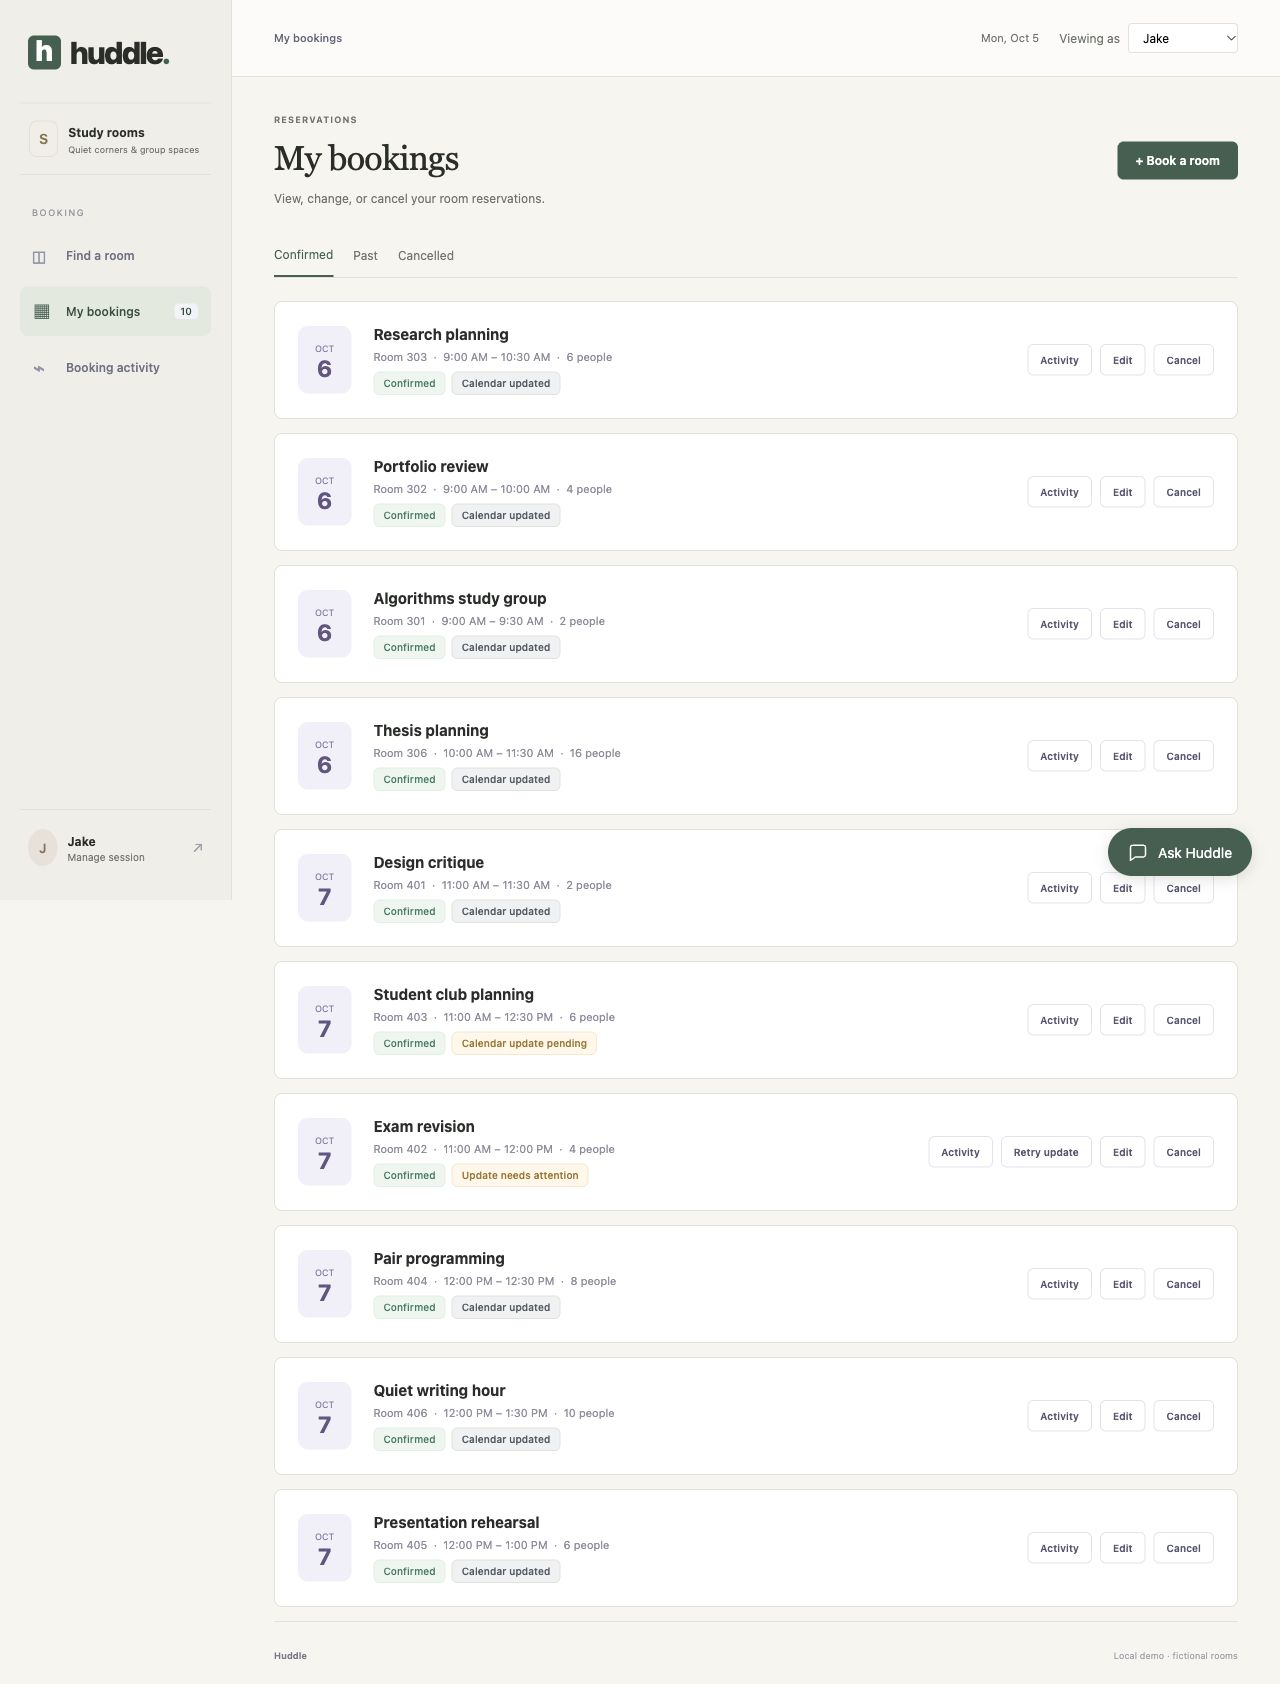
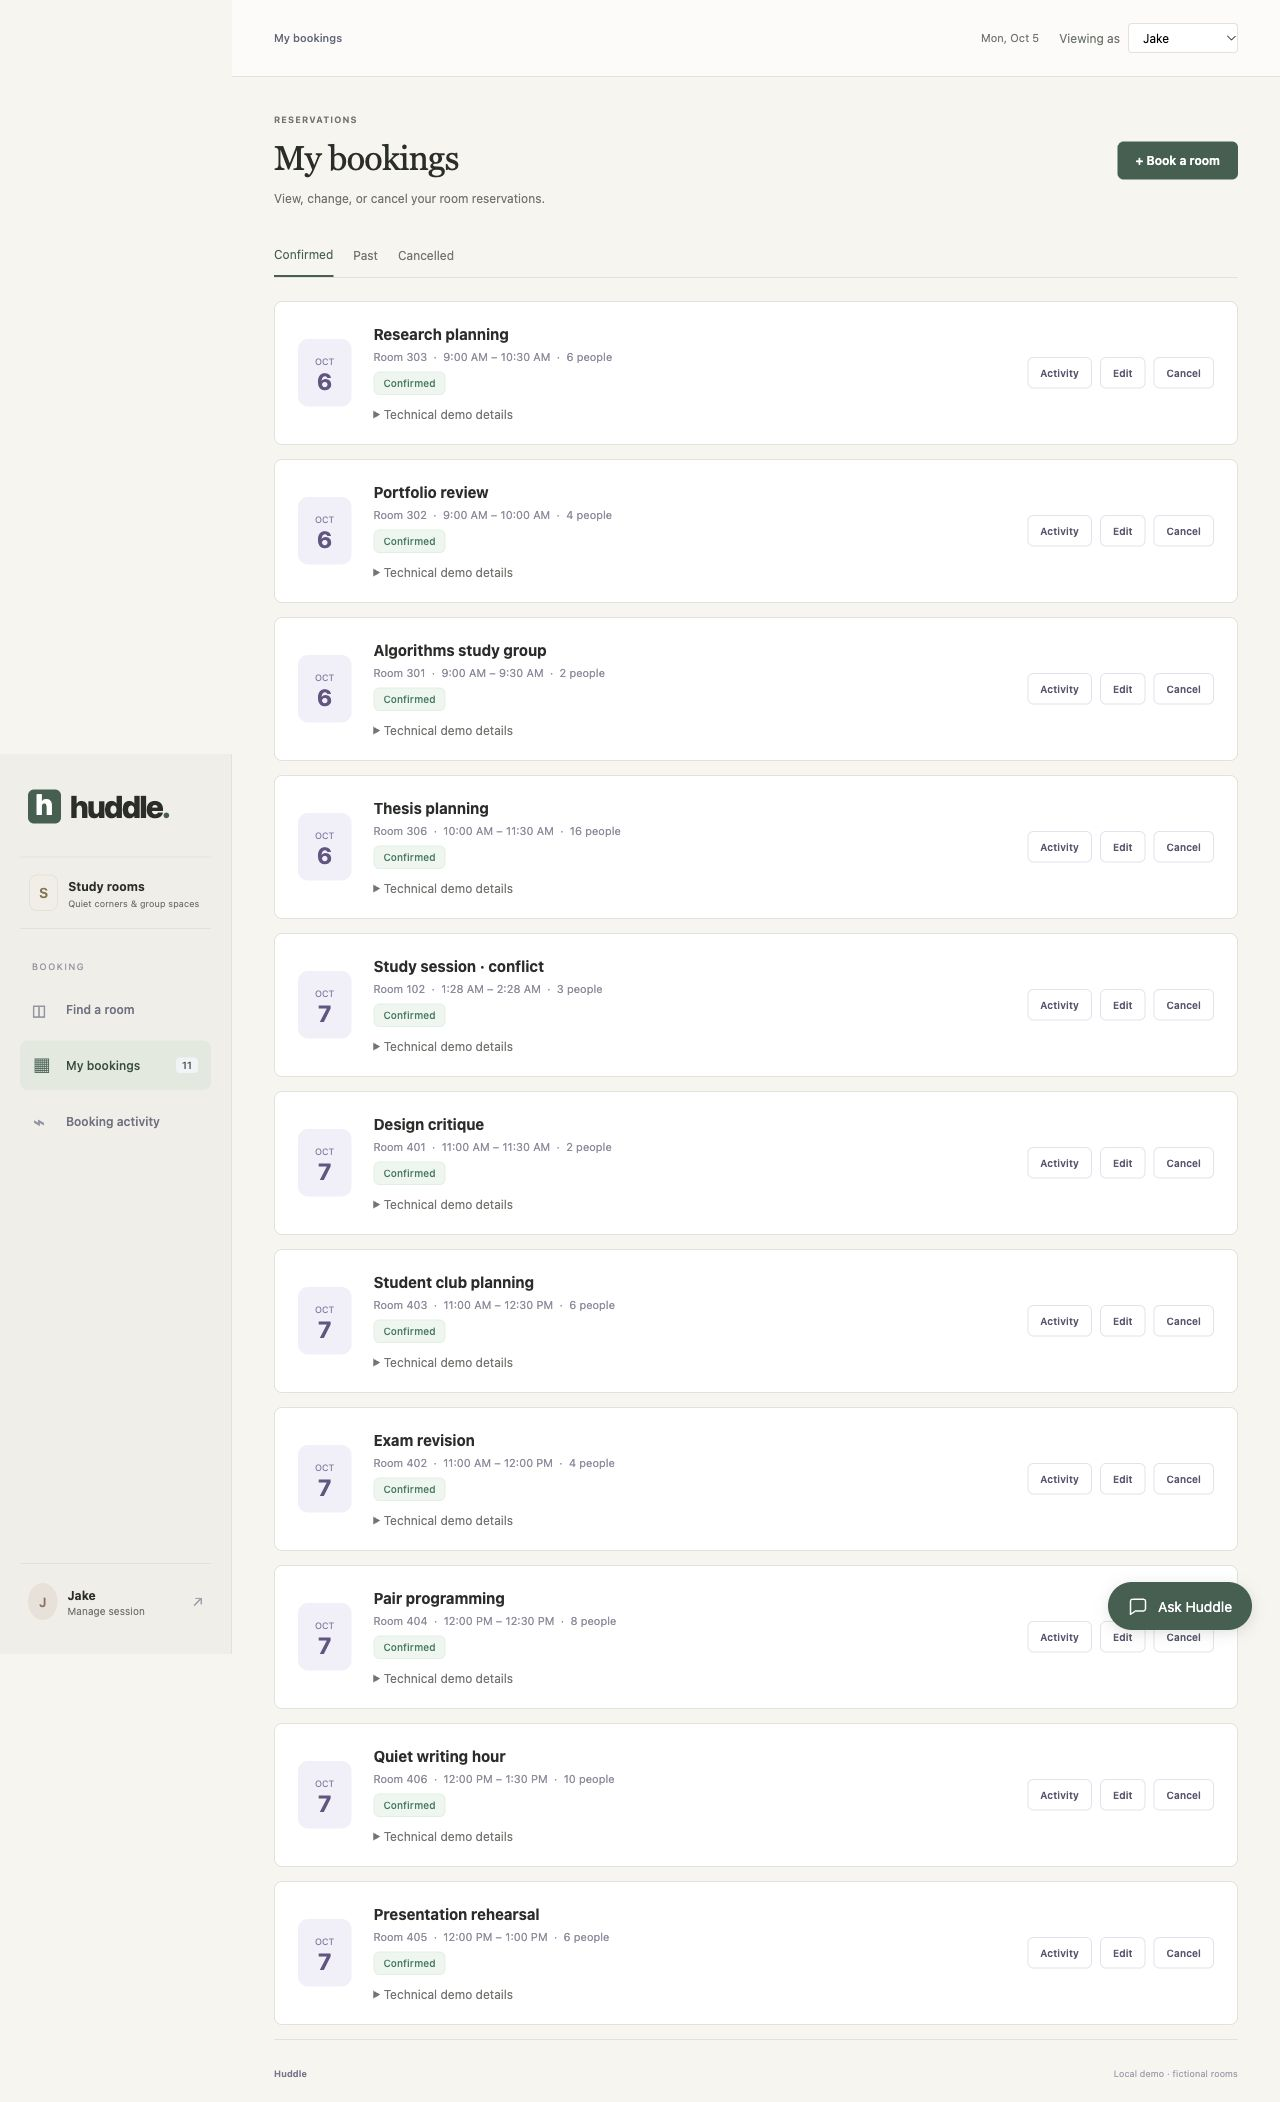
simplify booking activity and calendar details

diff --git a/app/static/app.js b/app/static/app.js
@@ -157,13 +157,14 @@ async function loadBookings() {
   }
 }
 function renderBookings() {
+  const expanded = new Set($$("details[data-booking-tech][open]").map(el => el.dataset.bookingTech));
   const bookings = state.bookings.filter(b => state.filter === "past" ? b.status === "confirmed" && new Date(b.starts_at) <= new Date() : b.status === state.filter && (state.filter !== "confirmed" || new Date(b.starts_at) > new Date()));
   $("#booking-list").innerHTML = bookings.length
     ? bookings
         .map((b) => {
           const d = new Date(b.starts_at),
             future = d > new Date();
-          return `<article class="booking-card"><div class="date-box"><small>${d.toLocaleDateString(undefined, { month: "short" })}</small><b>${d.getDate()}</b></div><div class="booking-content"><h3>${escapeHTML(b.title)}</h3><div class="booking-meta">${escapeHTML(roomName(b.room_id))} &nbsp;·&nbsp; ${tm(b.starts_at)} – ${tm(b.ends_at)} &nbsp;·&nbsp; ${b.attendees} people</div><div class="booking-badges"><span class="badge ${b.status === "cancelled" ? "cancelled" : ""}">${b.status === "cancelled" ? "Cancelled" : future ? "Confirmed" : "Past booking"}</span><span class="badge ${b.calendar_status === "synced" ? "neutral" : "pending"}">${{ pending: "Calendar update pending", synced: "Calendar updated", needs_review: "Update needs attention" }[b.calendar_status]}</span></div><div id="events-${b.id}" class="hidden history-inline"></div></div><div class="booking-actions"><button class="button secondary" data-events="${b.id}">Activity</button>${b.calendar_status === "needs_review" ? `<button class="button secondary" data-retry="${b.id}">Retry update</button>` : ""}${b.status === "confirmed" && future ? `<button class="button secondary" data-edit="${b.id}">Edit</button><button class="button secondary" data-cancel="${b.id}">Cancel</button>` : ""}</div></article>`;
+          return `<article class="booking-card"><div class="date-box"><small>${d.toLocaleDateString(undefined, { month: "short" })}</small><b>${d.getDate()}</b></div><div class="booking-content"><h3>${escapeHTML(b.title)}</h3><div class="booking-meta">${escapeHTML(roomName(b.room_id))} &nbsp;·&nbsp; ${tm(b.starts_at)} – ${tm(b.ends_at)} &nbsp;·&nbsp; ${b.attendees} people</div><div class="booking-badges"><span class="badge ${b.status === "cancelled" ? "cancelled" : ""}">${b.status === "cancelled" ? "Cancelled" : future ? "Confirmed" : "Past booking"}</span></div><div id="events-${b.id}" class="hidden history-inline"></div><details class="booking-technical" data-booking-tech="${b.id}" ${expanded.has(b.id) ? "open" : ""}><summary>Technical demo details</summary><p>Current calendar state: <b>${{ pending: "Update pending", synced: "Updated", needs_review: "Needs attention" }[b.calendar_status]}</b>. This does not change your room reservation.</p>${b.calendar_status === "needs_review" ? `<button class="button secondary" data-retry="${b.id}">Retry update</button>` : ""}<div id="calendar-events-${b.id}"></div></details></div><div class="booking-actions"><button class="button secondary" data-events="${b.id}">Activity</button>${b.status === "confirmed" && future ? `<button class="button secondary" data-edit="${b.id}">Edit</button><button class="button secondary" data-cancel="${b.id}">Cancel</button>` : ""}</div></article>`;
         })
         .join("")
     : `<div class="empty-state"><span class="empty-symbol">▦</span><h3>${state.filter === "cancelled" ? "No cancelled bookings" : state.filter === "past" ? "No past bookings" : "No confirmed bookings"}</h3><p>${state.filter === "cancelled" ? "Cancelled bookings will appear here." : state.filter === "past" ? "Completed reservations will appear here." : "Choose a room and time to create a booking."}</p><button class="button primary" data-page="discover">Explore rooms →</button></div>`;
@@ -347,29 +348,25 @@ async function loadMetrics() {
     $("#worker-status").className =
       "badge " + (m.worker?.online ? "" : "pending");
     const cards = [
-      ["Confirmed bookings", m.confirmed, "Includes past reservations"],
-      [
-        "Calendar updated",
-        m.synced,
-        "Across confirmed & cancelled bookings",
-      ],
-      ["Waiting for calendar update", m.pending, "Scheduled to update"],
-      ["Updates needing attention", m.needs_review, "Open the booking to retry"],
+      ["Confirmed reservations", m.confirmed, "Includes past reservations"],
+      ["Cancelled reservations", m.cancelled, "Rooms released"],
     ];
-    $("#metrics").innerHTML = cards
-      .map(
-        ([label, value, note]) =>
-          `<div class="metric"><span class="label">${label}</span><strong>${value}</strong><small>${note}</small></div>`,
-      )
-      .join("");
-    $("#activity").innerHTML = m.history.length
-      ? m.history.filter(h => h.kind !== "calendar_attempt").slice(0, 12)
-          .map(
-            (h) =>
-              `<div class="activity-item"><span class="event-dot">${h.kind === "calendar_synced" ? "✓" : h.kind.includes("retry") ? "↻" : "·"}</span><div><b>${escapeHTML(h.title)} · ${escapeHTML(activityText(h.kind)[0])}</b><p>${escapeHTML(activityText(h.kind)[1])}</p><small>${dt(h.created_at)} · ${escapeHTML(roomName(h.room_id))}</small></div></div>`,
-          )
-          .join("")
-      : '<div class="empty-state"><h3>No activity yet</h3><p>Your booking and calendar updates will appear here.</p></div>';
+    const renderCards = cards => cards.map(([label, value, note]) =>
+      `<div class="metric"><span class="label">${label}</span><strong>${value}</strong><small>${note}</small></div>`).join("");
+    const renderActivity = events => events.map(h =>
+      `<div class="activity-item"><span class="event-dot">·</span><div><b>${escapeHTML(h.title)} · ${escapeHTML(activityText(h.kind)[0])}</b><p>${escapeHTML(activityText(h.kind)[1])}</p><small>${dt(h.created_at)} · ${escapeHTML(roomName(h.room_id))}</small></div></div>`).join("");
+    $("#metrics").innerHTML = renderCards(cards);
+    const history = m.booking_history || m.history.filter(h => ["confirmed", "rescheduled", "cancelled"].includes(h.kind));
+    $("#activity").innerHTML = history.length ? renderActivity(history) : '<div class="empty-state"><h3>No activity yet</h3><p>Your bookings, changes, and cancellations will appear here.</p></div>';
+    $("#calendar-metrics").innerHTML = renderCards([
+      ["Calendar updated", m.synced, "Includes cancelled reservations"],
+      ["Pending updates", m.pending, "Queued for the worker"],
+      ["Needs attention", m.needs_review, "Open a booking’s technical details to retry"],
+      ["Retried tasks", m.retried, `${m.jobs} total tasks`],
+    ]);
+    const technical = m.history.filter(h => !["confirmed", "rescheduled", "cancelled"].includes(h.kind));
+    $("#calendar-activity").innerHTML = technical.length ? renderActivity(technical) : '<p>No calendar events yet.</p>';
+
   } catch (e) {
     toast(e.message);
   }
@@ -406,12 +403,10 @@ async function actions(event) {
         const events = await api(
           "/bookings/" + target.dataset.events + "/events",
         );
-        el.innerHTML = events
-          .map(
-            (e) =>
-              `<p>${escapeHTML(activityText(e.kind)[0])} · ${escapeHTML(activityText(e.kind)[1])}<br><small>${dt(e.created_at)}</small></p>`,
-          )
-          .join("");
+        const render = events => events.map(e => `<p>${escapeHTML(activityText(e.kind)[0])} · ${escapeHTML(activityText(e.kind)[1])}<br><small>${dt(e.created_at)}</small></p>`).join("");
+        el.innerHTML = render(events.filter(e => ["confirmed", "rescheduled", "cancelled"].includes(e.kind)));
+        $("#calendar-events-" + target.dataset.events).innerHTML = '<p class="muted">Historical calendar events; the current state is shown above.</p>' + render(events.filter(e => !["confirmed", "rescheduled", "cancelled"].includes(e.kind)));
+
       }
     }
     if (target.dataset.retry) {

diff --git a/app/static/index.html b/app/static/index.html
@@ -130,11 +130,9 @@
             <div>
               <p class="eyebrow">RESERVATION STATUS</p>
               <h1>Booking activity</h1>
-              <p>Track your reservations and calendar updates.</p>
+              <p>See when rooms were booked, changed, or cancelled.</p>
             </div>
-            <span class="badge neutral" id="worker-status"
-              >Checking updates</span
-            >
+
           </div>
           <div class="metrics" id="metrics"></div>
 
@@ -145,6 +143,14 @@
 
               </div>
               <div id="activity"></div>
+              <details class="technical-details" id="calendar-details">
+                <summary>Technical demo details</summary>
+                <p>Calendar synchronization is a background reliability demonstration. It does not determine whether your room is reserved. Events below are history, not the current status of each booking.</p>
+                <span class="badge neutral" id="worker-status">Checking updates</span>
+                <div class="metrics" id="calendar-metrics"></div>
+                <h3>Calendar processing history</h3>
+                <div id="calendar-activity"></div>
+              </details>
             </div>
 
           </div>

diff --git a/app/static/styles.css b/app/static/styles.css
@@ -1564,3 +1564,10 @@ h1 { font-family: Georgia, serif; font-weight: 500; font-size: 34px; letter-spac
 .floor-control select { width: auto; padding: 7px 10px; border: 1px solid var(--line); border-radius: 4px; background: white; }
 .sample-flows { margin-top: 14px; font-size: 12px; }
 .sample-flows button { display: block; margin-top: 8px; }
+
+#metrics { grid-template-columns: repeat(2, minmax(0, 1fr)); }
+.booking-technical { margin-top: 12px; color: var(--muted); font-size: 12px; }
+.booking-technical summary { cursor: pointer; }
+.booking-technical p { line-height: 1.6; margin: 10px 0; }
+#calendar-details { margin-top: 24px; }
+#calendar-metrics { margin-top: 16px; grid-template-columns: repeat(2, minmax(0, 1fr)); }

diff --git a/app/operations.py b/app/operations.py
@@ -36,11 +36,19 @@ def metrics(user=Depends(current_user)):
             FROM booking_events e JOIN bookings b ON b.id=e.booking_id WHERE b.owner_id=%s ORDER BY e.id DESC LIMIT 30""",
             (user["id"],),
         ).fetchall()
+        booking_history = conn.execute(
+            """SELECT e.kind,e.detail,e.created_at,b.title,b.room_id,b.id AS booking_id
+            FROM booking_events e JOIN bookings b ON b.id=e.booking_id
+            WHERE b.owner_id=%s AND e.kind IN ('confirmed','rescheduled','cancelled')
+            ORDER BY e.id DESC LIMIT 30""",
+            (user["id"],),
+        ).fetchall()
     return {
         **totals,
         **jobs,
         "worker": heartbeat,
         "history": history,
+        "booking_history": booking_history,
         "scope": "Current workspace session; calendar simulator",
         "latency_definition": "p95 seconds from outbox enqueue to successful reconciliation, including retries; completed jobs only",
     }

diff --git a/tests/integration/test_bookings.py b/tests/integration/test_bookings.py
@@ -148,3 +148,18 @@ def test_unauthenticated_api():
             assert (await c.get("/bookings")).status_code == 401
 
     asyncio.run(run())
+
+
+def test_booking_activity_survives_calendar_event_volume(api):
+    b = api("POST", "/bookings", json=payload()).json()
+    with connect() as conn:
+        for _ in range(35):
+            conn.execute(
+                "INSERT INTO booking_events(booking_id,kind,detail) VALUES (%s,'calendar_retry','test retry')",
+                (b["id"],),
+            )
+    metrics = api("GET", "/metrics").json()
+    assert all(h["kind"] == "calendar_retry" for h in metrics["history"])
+    assert [h["kind"] for h in metrics["booking_history"]] == ["confirmed"]
+    api("POST", "/session", json={"name": "Other student"})
+    assert api("GET", "/metrics").json()["booking_history"] == []

diff --git a/README.md b/README.md
@@ -18,6 +18,9 @@ scraping, or public deployment requirement.
   leave the room reserved, retry automatically, and become visible review tasks
   when the retry budget is exhausted.
 
+Calendar processing details stay collapsed under **Technical demo details**; the
+main booking screens show reservation status and booking history.
+
 The UI, API, database, worker, and HTTP calendar simulator are runnable locally.
 This is a portfolio/demo application, not a deployed production booking service.
 
@@ -158,7 +161,7 @@ reproducible development. LangSmith tracing is not required.
 
 ## Measured evidence
 
-The current suite passes 68 tests. A [separate-process restart experiment](artifacts/workflow-restart.json)
+The current suite passes 69 tests. A [separate-process restart experiment](artifacts/workflow-restart.json)
 restores an approval checkpoint and verifies repeated approval creates one booking.
 Run it with `TEST_DATABASE_URL=.../huddle_test uv run python scripts/workflow_demo.py`.
 
@@ -210,7 +213,7 @@ uv run pytest -q
 uv run python scripts/recovery_demo.py
 ```
 
-The validated suite has **68 passing cases**, including actual PostgreSQL
+The validated suite has **69 passing cases**, including actual PostgreSQL
 contention, direct constraint enforcement, owner isolation, exact-action approval,
 lease recovery, and retry exhaustion. The recovery script deliberately exits
 worker subprocesses, waits for real lease expiry, and overwrites the raw results
@@ -257,15 +260,22 @@ view; they include successful and failed update states rather than only empty pa
 ![Cancelled bookings](docs/screenshots/cancelled-bookings.jpg)
 
 </details>
-<details><summary>Calendar failures and retry activity</summary>
+<details><summary>Booking activity and optional technical details</summary>
 
-![Booking activity with pending and failed updates](docs/screenshots/reliability.jpg)
+![Booking activity](docs/screenshots/reliability.jpg)
+
+![Optional calendar diagnostics](docs/screenshots/technical-activity.jpg)
+
+![Retry inside technical details](docs/screenshots/calendar-retry.jpg)
+
+![Recovered update](docs/screenshots/calendar-recovered.jpg)
 
 </details>
 <details><summary>Mobile directory and assistant</summary>
 
 ![Mobile room discovery](docs/screenshots/mobile.jpg)
 ![Mobile assistant](docs/screenshots/mobile-chat.jpg)
+![Mobile booking activity](docs/screenshots/mobile-activity.jpg)
 
 </details>
 

diff --git a/docs/validation.md b/docs/validation.md
@@ -1,6 +1,6 @@
 # Validation record — October 4–5, 2026
 
-The latest verification is the numbered-room section below: 68 automated tests,
+The latest verification includes the reservation-focused UI section below: 69 automated tests,
 16 live-model scenarios, four crash/recovery trials, and the populated profile
 checks. Earlier sections are a chronological record; their room names and test
 counts describe those earlier versions. `assistant-evaluation.json` is overwritten
@@ -184,3 +184,17 @@ The recovery rerun records the checked-out baseline hash `e5ef98e`; worker/fault
 changes were still uncommitted during execution and were subsequently committed
 in `32ce785`. The recorded hash alone does not identify the complete working tree
 used for that trial. The source field was preserved rather than relabeled.
+
+## Reservation-focused UI finish
+
+The suite passed **69 tests** after separating booking history from calendar
+processing history. The added regression floods calendar history with 35 retries
+and verifies that the booking event remains in the primary activity response and
+that another owner cannot read it. Lint, formatting and JavaScript syntax passed.
+
+Browser checks verified that calendar failures are absent from the main activity
+screen and primary booking badges. The collapsed technical section retains worker
+metrics and historical processing events. Retrying Morgan’s Room 302 from its
+booking disclosure completed the calendar update while the room stayed confirmed;
+the disclosure remained open through the refresh. Current screenshots show the
+reservation-focused screens and separate expanded technical views.

diff --git a/docs/ui.md b/docs/ui.md
@@ -17,9 +17,13 @@ size. That message is stored in conversation history, so refresh shows the same
 confirmation. Repeating approval returns the same booking and does not add another
 confirmation. Room conflicts still require a fresh proposal and approval.
 
-Calendar status stays on bookings because it explains pending work and exposes the
-Retry update action. The technology description and simulator limitations live in
-the README. Booking activity shows actual persisted events and user-scoped counts.
+Reservation status is the primary booking signal. Calendar status and Retry update
+live in a collapsed **Technical demo details** disclosure on each booking. Open
+disclosures remain open across background refreshes. The main activity page shows
+only booked, changed and cancelled events; a separate collapsed section contains
+worker status, calendar counts and processing history. Historical events are clearly
+labeled as history rather than current booking state. The technology description
+and simulator limitations live in the README.
 The completed-only p95 is available through the API, not displayed as a product
 performance claim. Technical workflow traces are optional and collapsed.
 

diff --git a/docs/architecture.md b/docs/architecture.md
@@ -84,7 +84,10 @@ or immediate consistency between the room database and calendar.
 
 ## Metrics
 
-The dashboard queries stored rows for the current session. Counts include the
+The dashboard queries stored rows for the current session. Reservation activity
+is queried separately from calendar history so frequent worker attempts cannot
+bury booking events. The UI keeps calendar metrics and history in a collapsed
+technical disclosure. Counts include the
 current state of bookings, including calendar state of cancelled reservations.
 A retried job is an outbox row with `attempts > 1`; manual retry resets the attempt
 budget, while the immutable event history retains previous attempts.
